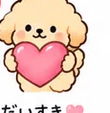
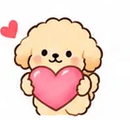
Fix cropped poodle illustrations and add padding via object-fit
The sprite crops were too tight around each pose, slicing through
decorations (music notes, sweat drops, motion lines) at the image's
own edges - not a CSS clipping issue. Re-crop every asset with a
generous window per pose (verified against the source sheet's actual
per-icon spacing) so the character and all of its decorations are
fully captured, then re-check each against neighboring icons to
avoid bleed.

Also add object-fit: contain with an explicit box size and padding
to every image class (hero images, inline icons, done icon, video
card thumbnails) so any remaining aspect-ratio mismatch scales down
to fit its box instead of being cropped by the container.

diff --git a/index.html b/index.html
@@ -32,16 +32,16 @@ details summary::-webkit-details-marker{display:none}details summary:after{conte
 .selector{font-size:20px;font-weight:800;margin:4px 0 13px}.grid{display:grid;grid-template-columns:1fr 1fr;gap:11px}
 .card{border:1px solid #ddd;border-radius:13px;padding:13px 10px;min-height:105px;display:flex;flex-direction:column;justify-content:space-between}
 .card b{font-size:14px;line-height:1.45}.card a{display:block;text-decoration:none;text-align:center;background:#df557c;color:#fff;border-radius:9px;padding:9px 2px;font-size:12px;font-weight:700;margin-top:9px}
-#done{padding-top:28px}.doneIcon{display:block;width:130px;height:auto;margin:15px auto}.doneTitle{font-size:34px;text-align:center;font-weight:800}.center{text-align:center;color:#666;line-height:1.7}
-.headerIcon{width:30px;height:auto;margin-right:8px}.heroImg{display:block;width:190px;height:auto;margin:8px auto 6px}.heroImgSmall{display:block;width:130px;height:auto;margin:6px auto}.inlineIcon{width:22px;height:auto;vertical-align:middle}
-.card .videoIllo{display:flex;align-items:center;justify-content:center;height:56px;margin:2px 0 7px}.card .videoIllo img{width:56px;height:auto;filter:drop-shadow(0 3px 3px rgba(210,85,125,.10))}
+#done{padding-top:28px}.doneIcon{display:block;box-sizing:border-box;width:150px;height:140px;object-fit:contain;padding:6px;margin:15px auto}.doneTitle{font-size:34px;text-align:center;font-weight:800}.center{text-align:center;color:#666;line-height:1.7}
+.headerIcon{box-sizing:border-box;width:36px;height:36px;object-fit:contain;padding:2px;margin-right:8px;vertical-align:middle}.heroImg{display:block;box-sizing:border-box;width:100%;max-width:230px;height:200px;object-fit:contain;padding:10px;margin:8px auto 6px}.heroImgSmall{display:block;box-sizing:border-box;width:100%;max-width:170px;height:150px;object-fit:contain;padding:8px;margin:6px auto}.inlineIcon{box-sizing:border-box;width:28px;height:28px;object-fit:contain;padding:2px;vertical-align:middle}
+.card .videoIllo{display:flex;align-items:center;justify-content:center;height:66px;margin:2px 0 7px}.card .videoIllo img{box-sizing:border-box;width:66px;height:66px;object-fit:contain;padding:4px;filter:drop-shadow(0 3px 3px rgba(210,85,125,.10))}
 .calTitle{font-size:28px;text-align:center;font-weight:800;margin-top:30px}.month{text-align:center;font-weight:700;margin:14px}
 .cal{display:grid;grid-template-columns:repeat(7,1fr);gap:8px;margin:15px 0}.cal div{height:40px;display:flex;align-items:center;justify-content:center;font-size:13px}.cal .head{font-weight:700;color:#888}.cal .done{width:34px;height:34px;margin:auto;border-radius:50%;background:#f295b8;color:#fff;font-weight:800}.note{font-size:12px;color:#999;text-align:center;margin-top:20px}@keyframes appear{from{opacity:0;transform:translateY(12px)}to{opacity:1;transform:none}}.recordBtn{cursor:pointer;width:100%;display:block;text-decoration:none;text-align:center}
 .sparkle{text-align:center;font-size:34px;letter-spacing:10px;margin:0 0 8px;animation:floaty 2.5s ease-in-out infinite}.bigLead{font-size:21px;font-weight:800;color:#d45d83;line-height:1.55}.goBtn{font-size:20px;padding:18px 10px;box-shadow:0 8px 18px rgba(223,85,124,.18)}.sectionKicker{font-size:15px;color:#d45d83;font-weight:800;letter-spacing:.08em}.otherLink{display:block;text-align:center;text-decoration:none;color:#df7fa8;font-size:19px;font-weight:800;padding:24px 5px 18px}.otherBeforeDone{margin:8px 0 8px}.otherBeforeDone summary{padding:18px 0}.otherLink:active{transform:scale(.98)}@keyframes floaty{0%,100%{transform:translateY(0)}50%{transform:translateY(-5px)}}
 .recorded{background:#fff!important;color:#df557c!important;border:2px solid #df557c!important}
 body{background:linear-gradient(180deg,#fff7fa 0,#fdfdfd 32%,#fff 100%)}.app{box-shadow:0 0 35px rgba(210,85,125,.08)}header{background:rgba(255,255,255,.96);backdrop-filter:blur(8px)}header b:after{content:"  💓"}
 #mission{position:relative;overflow:hidden}#mission:before{content:"✦  ˚  ✧  ˚  ✦";position:absolute;top:20px;left:0;right:0;text-align:center;color:#f2b3c9;font-size:18px;letter-spacing:7px;opacity:.8}#mission:after{content:"♡";position:absolute;right:-8px;bottom:22px;color:#f7d6e1;font-size:90px;transform:rotate(12deg)}.bigLead{letter-spacing:.03em;text-shadow:0 1px 0 #fff}.box{border-color:#f0d5df;box-shadow:0 10px 28px rgba(210,85,125,.07)}.goBtn{border-radius:16px;transform:translateZ(0)}.goBtn:active,.recordBtn:active,.btn:active{transform:scale(.98)}
-#today{position:relative}#today:before{content:"💗";position:absolute;right:10px;top:22px;font-size:22px;opacity:.7}.otherBeforeDone{background:#fff8fb;border-radius:18px;padding:0 12px;border:1px solid #f6dbe5}.otherBeforeDone summary{padding:18px 0}.otherBeforeDone summary:after{content:"  ♡";font-size:20px}#finishButton{box-shadow:0 7px 18px rgba(210,85,125,.08)}#done{position:relative;padding-bottom:20px}#done:before{content:"✨  WELL DONE  ✨";display:block;text-align:center;color:#d45d83;font-size:13px;font-weight:800;letter-spacing:.12em;margin-bottom:8px}.doneIcon{filter:drop-shadow(0 8px 8px rgba(220,110,145,.14))}.doneTitle{font-size:40px;letter-spacing:.03em}#done .center{font-size:17px;font-weight:600}.recordBtn{font-size:18px;padding:18px 10px;border-radius:16px;box-shadow:0 10px 22px rgba(210,85,125,.13)}#calendar{position:relative;padding-top:8px}.calKicker{display:flex;align-items:center;justify-content:center;gap:6px;color:#d45d83;font-weight:800;font-size:16px;margin:8px 0 4px}.hanaIcon{width:20px;height:auto}.calTitle{color:#222}.cal .done{box-shadow:0 0 0 5px #fbeaf1,0 5px 12px rgba(242,149,184,.3)}#calendar .btn{background:#fff;color:#df557c;border:2px solid #df557c}.note{color:#aaa}
+#today{position:relative}#today:before{content:"💗";position:absolute;right:10px;top:22px;font-size:22px;opacity:.7}.otherBeforeDone{background:#fff8fb;border-radius:18px;padding:0 12px;border:1px solid #f6dbe5}.otherBeforeDone summary{padding:18px 0}.otherBeforeDone summary:after{content:"  ♡";font-size:20px}#finishButton{box-shadow:0 7px 18px rgba(210,85,125,.08)}#done{position:relative;padding-bottom:20px}#done:before{content:"✨  WELL DONE  ✨";display:block;text-align:center;color:#d45d83;font-size:13px;font-weight:800;letter-spacing:.12em;margin-bottom:8px}.doneIcon{filter:drop-shadow(0 8px 8px rgba(220,110,145,.14))}.doneTitle{font-size:40px;letter-spacing:.03em}#done .center{font-size:17px;font-weight:600}.recordBtn{font-size:18px;padding:18px 10px;border-radius:16px;box-shadow:0 10px 22px rgba(210,85,125,.13)}#calendar{position:relative;padding-top:8px}.calKicker{display:flex;align-items:center;justify-content:center;gap:6px;color:#d45d83;font-weight:800;font-size:16px;margin:8px 0 4px}.hanaIcon{box-sizing:border-box;width:26px;height:26px;object-fit:contain;padding:2px}.calTitle{color:#222}.cal .done{box-shadow:0 0 0 5px #fbeaf1,0 5px 12px rgba(242,149,184,.3)}#calendar .btn{background:#fff;color:#df557c;border:2px solid #df557c}.note{color:#aaa}
 :root{--pink:#df557c;--pink2:#f7d6e1;--blue:#5b97e8;--ink:#171717}body{background:radial-gradient(circle at 50% 0,#fff0f6 0,#fff 28%,#fff 100%)}.app{position:relative;overflow:hidden}.app:before,.app:after{content:"✦";position:fixed;pointer-events:none;color:#f5bfd1;opacity:.45;font-size:24px;z-index:0}.app:before{left:5px;top:22%;transform:rotate(-12deg)}.app:after{right:5px;top:56%;transform:rotate(14deg)}header{border-bottom:2px solid #f7dce6}header b{letter-spacing:.02em}header b:after{content:"  💗"}.box{position:relative;overflow:hidden}.box:after{content:"♡  ✦  ♡";position:absolute;right:10px;top:8px;color:#f5cfdd;font-size:20px;letter-spacing:4px;transform:rotate(8deg)}.sectionKicker{display:inline-block;background:#fff0f5;border-radius:999px;padding:6px 11px}.title{letter-spacing:.01em}.btn,.card a{transition:transform .12s ease,box-shadow .12s ease,filter .12s ease}.btn:active,.card a:active,.choose:active,details summary:active,#finishButton:active,.recordBtn:active{animation:tapShake .24s ease;transform:scale(.97)}@keyframes tapShake{0%{transform:scale(.97) rotate(0)}25%{transform:scale(.97) rotate(-1.8deg)}50%{transform:scale(.97) rotate(1.8deg)}75%{transform:scale(.98) rotate(-1deg)}100%{transform:scale(1) rotate(0)}}.btn:focus-visible,.card a:focus-visible,details summary:focus-visible{outline:4px solid #f6bfd2;outline-offset:3px}.otherBeforeDone{position:relative}.otherBeforeDone:before{content:"🎀";position:absolute;right:12px;top:-13px;font-size:25px;z-index:2}.otherBeforeDone summary{background:linear-gradient(180deg,#fafdff,#f2f8ff);border:2px solid #f3b8cf;border-radius:16px;margin:8px 0;color:#df7fa8;box-shadow:0 5px 14px rgba(210,85,125,.08)}.grid{gap:13px}.videoCard{position:relative;overflow:hidden;background:linear-gradient(180deg,#fff,#fff9fb)}.card{position:relative}.card:before{content:"✦";position:absolute;right:8px;top:5px;color:#f4b6ca;font-size:17px}.card b{font-size:14px}#finishButton{background:#fff9fb!important;border-width:2px!important;box-shadow:0 7px 18px rgba(210,85,125,.10),0 0 0 4px #fff0f5}#finishButton:active{background:#fbe7ef!important}#done:after{content:"✦  ♡  ✦";display:block;text-align:center;color:#f1b0c7;font-size:23px;letter-spacing:8px;margin-top:10px}.doneIcon{animation:floaty 2.2s ease-in-out infinite}.doneTitle{text-shadow:0 3px 0 #fff0f5}.recordBtn{position:relative;overflow:hidden;background:#df557c!important;color:#fff!important;border:0!important;opacity:1!important}.recordBtn:after{content:"✦  ✦  ✦";position:absolute;right:13px;top:3px;color:#ffd7e3;font-size:14px;letter-spacing:3px}#calendar{background:linear-gradient(180deg,#fff,#fff8fb);border-radius:22px;padding-left:10px;padding-right:10px}#calendar:after{content:"🌸  ✨  🌸";display:block;text-align:center;color:#e7a0b8;font-size:20px;margin-top:16px;letter-spacing:6px}.cal div{border-radius:12px}.cal .done{box-shadow:0 0 0 5px #fbeaf1,0 5px 12px rgba(242,149,184,.35),0 0 0 1px #f295b8}
 .recordBtn{opacity:1!important;filter:none!important}.tap-shake{animation:tapShakeReal .34s ease both!important;transform-origin:center!important}@keyframes tapShakeReal{0%{transform:scale(1)}18%{transform:scale(.96) rotate(-2.5deg)}38%{transform:scale(1.02) rotate(2.5deg)}58%{transform:scale(.985) rotate(-1.5deg)}78%{transform:scale(1.01) rotate(.8deg)}100%{transform:scale(1) rotate(0)}}@media (prefers-reduced-motion:reduce){.tap-shake{animation:none!important}}
 </style></head>
